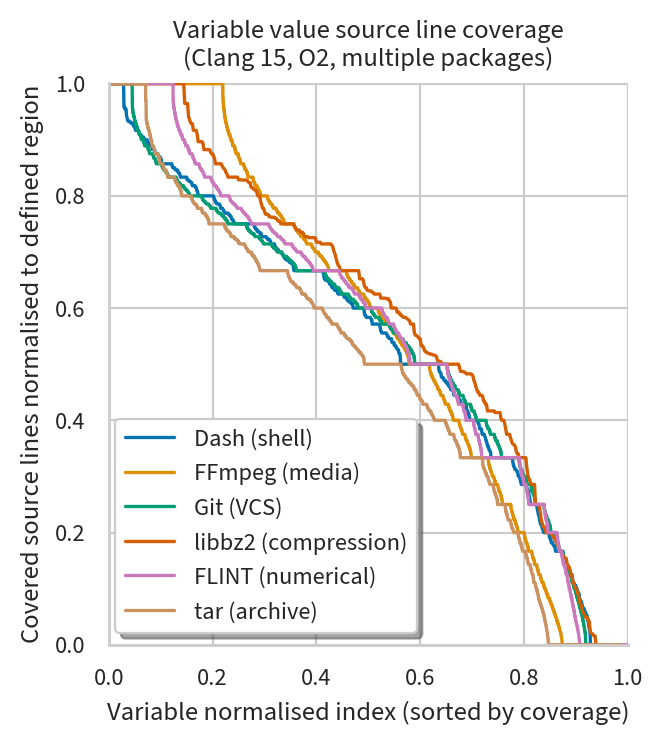
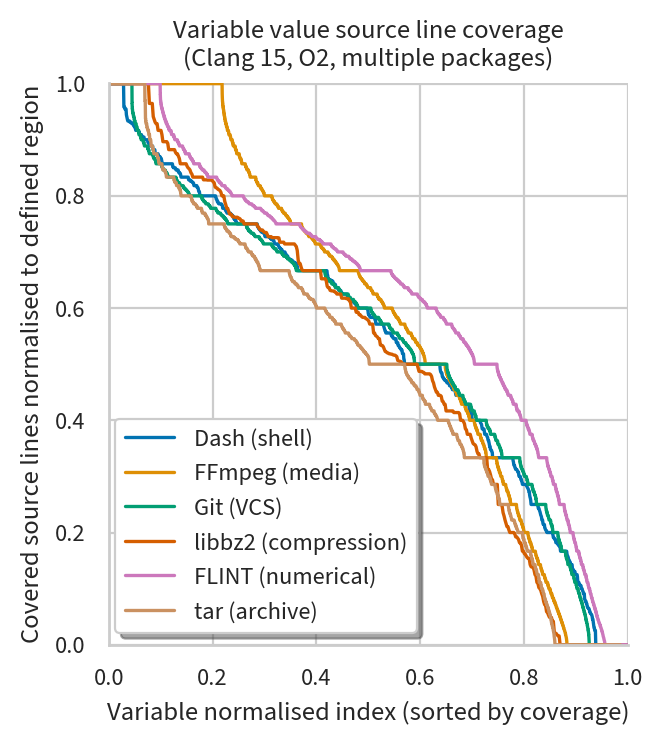
Update multi-package figure

Changed region(s): [[0.2115, 0.0926, 0.9366, 0.8644], [0.3323, 0.1235, 0.3625, 0.1544]]

diff --git a/data/shared/summary_plots.py b/data/shared/summary_plots.py
@@ -7,6 +7,111 @@ import matplotlib.pyplot as plt
 import seaborn as sns
 import seaborn.objects as so
 
+def load_data(target_name, data_path_prefix):
+  dfs = []
+
+  def read_run(file, variant):
+    df = pd.read_table(f"{data_path_prefix}{file}")
+
+    # Clean up column names
+    df.columns = df.columns.str.strip()
+    # Sort by name to aid matching across datasets
+    df = df.sort_values("Name", ignore_index=True)
+    # Summarise across inlined call sites with arithmetic mean
+    df = df.groupby("Name", as_index=False).mean(numeric_only=True)
+
+    df.variant = variant
+    dfs.append(df)
+
+  if target_name == "git":
+    read_run(f"clang/15/O2/{target_name}.tsv", ("Clang", "15", "O2", "No KE"))
+  else:
+    read_run(f"O2-15/{target_name}.tsv", ("Clang", "15", "O2", "No KE"))
+
+  # Check names present in each compilation for differences
+  print("# Names")
+  common_names = set(dfs[0]["Name"])
+  for df in dfs:
+    common_names = common_names & set(df["Name"])
+  print(f"Common names: {len(common_names)}")
+  all_names = set()
+  for df in dfs:
+    all_names = all_names | set(df["Name"])
+  all_names_df = pd.DataFrame({ "Name": list(all_names) })
+  print(f"All names: {len(all_names)}")
+  print()
+
+  def name_diffs(df):
+    print(f"## {df.variant}")
+    missing_all_diff = len(all_names_df[~all_names_df["Name"].isin(df["Name"])])
+    print(f"{missing_all_diff} names from other compilations missing from this compilation")
+    common_diff = len(df[~df["Name"].isin(common_names)])
+    print(f"{common_diff} names missing from one or more other compilations")
+    print()
+
+  for df in dfs:
+    name_diffs(df)
+
+  def add_missing_rows(df):
+    variant = df.variant
+    # Create additional dataset with missing rows
+    missing_df = all_names_df[~all_names_df["Name"].isin(df["Name"])].copy()
+    missing_df["Cov (B)"] = 0
+    missing_df["Scope (B)"] = 1
+    missing_df["Cov (L)"] = 0
+    missing_df["Scope (L)"] = 1
+    missing_df["Adj Cov (L)"] = 0
+    missing_df["Flt Cov (L)"] = 0
+    missing_df["Src Scope (L)"] = 1
+    print(f"Adding {len(missing_df)} missing names to {variant}")
+    # Append to existing data and resort
+    df = pd.concat(
+      [
+        df,
+        missing_df,
+      ],
+      ignore_index=True,
+    )
+    assert len(df) == len(all_names_df), "Names still missing"
+    df = df.sort_values("Name", ignore_index=True)
+    df.variant = variant
+    return df
+
+  # Add any missing rows so that all compilations contain the union of all names
+  for (i, df) in enumerate(dfs):
+    dfs[i] = add_missing_rows(df)
+
+  def df_keys(df):
+    keys = df.variant
+    (family, version, level, ke) = keys
+    variant = f"{family} {version}, {level}"
+    if ke == "Has KE":
+      variant += " + KE"
+    return (variant)
+
+  compilations_df = pd.concat(
+    dfs,
+    keys=map(df_keys, dfs),
+    names=[
+      "Variant",
+      "Row",
+    ],
+  )
+
+  return compilations_df
+
+def normalise(df):
+  # Compute various coverage ratios
+  df["CB / SB"] = df["Cov (B)"] / df["Scope (B)"]
+  df["CL / SL"] = df["Cov (L)"] / df["Scope (L)"]
+  # df["ACL / SL"] = df["Adj Cov (L)"] / df["Scope (L)"]
+  df["CL / SSL"] = df["Cov (L)"] / df["Src Scope (L)"]
+  df["FCL / SSL"] = df["Flt Cov (L)"] / df["Src Scope (L)"]
+  # Line table may differ between runs, giving different scope line counts
+  # Use the largest scope line count from any run to recompute ratio
+  df["Max Scope (L)"] = df.groupby("Name")["Scope (L)"].transform("max")
+  df["CL / MSL"] = df["Cov (L)"] / df["Max Scope (L)"]
+
 def coverage_by_package_o2(df):
   df = df.copy()
   grouped = df.sort_values(by="FCL / SSL", ascending=False).groupby([
